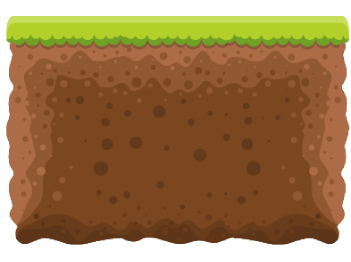
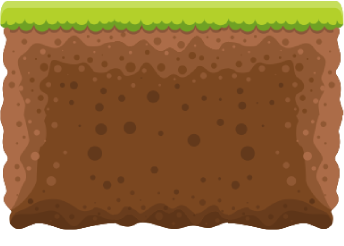
updated Terrain class code

diff --git a/Level1.java b/Level1.java
@@ -20,10 +20,10 @@ public class Level1 extends Levels
         setBackground(bkgrd);
         
         addObject(new Masky(), 27, 573);
-        addObject(new RectangleBlock(), 538, 493);
-        addObject(new B1(), 336, 498);
-        addObject(new B1(), 227, 566);
-        addObject(new B2(), 355, 566);
+        addObject(new RectangleBlock(), 538, 500);
+        addObject(new B1(), 336, 510);
+        addObject(new B1(), 227, 580);
+        addObject(new B2(), 355, 580);
         //addObject(new EndFlag(), 40, 70);
     }
 }

diff --git a/SquareBlock.java b/SquareBlock.java
@@ -12,17 +12,14 @@ public class SquareBlock extends Grassland
      * Act - do whatever the SquareBlock wants to do. This method is called whenever
      * the 'Act' or 'Run' button gets pressed in the environment.
      */
-    int width;
-    int height;
+    public SquareBlock()
+    {
+        getImage();   
+    }
     public SquareBlock(int width, int height)
     {
         this.width = width;
         this.height = height;
-    }
-    public SquareBlock()
-    {
-        
-        
     }
     public void act()
     {

diff --git a/Terrains.java b/Terrains.java
@@ -12,6 +12,16 @@ public class Terrains extends Actor
      * Act - do whatever the Terrains wants to do. This method is called whenever
      * the 'Act' or 'Run' button gets pressed in the environment.
      */
+    int width;
+    int height;
+    public Terrains() 
+    {
+        getImage();
+    }
+    public Terrains(int width, int height)
+    {
+        getImage().scale(width, height);
+    }
     public void act()
     {
         // Add your action code here.

diff --git a/RectangleBlock.java b/RectangleBlock.java
@@ -12,6 +12,14 @@ public class RectangleBlock extends Grassland
      * Act - do whatever the RectangleBlock wants to do. This method is called whenever
      * the 'Act' or 'Run' button gets pressed in the environment.
      */
+    public RectangleBlock()
+    {
+        getImage();
+    }
+    public RectangleBlock(int width, int height)
+    {
+        getImage().scale(width, height); 
+    }
     public void act()
     {
         // Add your action code here.

diff --git a/SingleBlocks.java b/SingleBlocks.java
@@ -12,6 +12,14 @@ public class SingleBlocks extends Grassland
      * Act - do whatever the SingleBlocks wants to do. This method is called whenever
      * the 'Act' or 'Run' button gets pressed in the environment.
      */
+    public SingleBlocks() 
+    {
+        getImage();
+    }
+    public SingleBlocks(int width, int height)
+    {
+        getImage().scale(width, height);
+    } 
     public void act()
     {
         // Add your action code here.

diff --git a/Grassland.java b/Grassland.java
@@ -12,6 +12,15 @@ public class Grassland extends Terrains
      * Act - do whatever the Grassland wants to do. This method is called whenever
      * the 'Act' or 'Run' button gets pressed in the environment.
      */
+    
+    public Grassland() 
+    {
+        getImage();
+    }
+    public Grassland(int width, int height)
+    {
+        getImage().scale(width, height);
+    }
     public void act()
     {
         // Add your action code here.

diff --git a/Platform.java b/Platform.java
@@ -12,6 +12,14 @@ public class Platform extends Grassland
      * Act - do whatever the Platform wants to do. This method is called whenever
      * the 'Act' or 'Run' button gets pressed in the environment.
      */
+    public Platform() 
+    {
+        getImage();
+    }
+    public Platform(int width, int height)
+    {
+        getImage().scale(width, height);
+    }
     public void act()
     {
         // Add your action code here.
